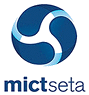
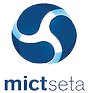
Fixed the pictures

diff --git a/ModusMVC/css/style.css b/ModusMVC/css/style.css
@@ -1330,7 +1330,10 @@ p {
     text-align:center;
     font-weight:bold;
 }
-
+.leadership_caption img {
+   
+    padding-left:45px;
+}
 
 .fadeInUp > ul > li {
     list-style: none;
